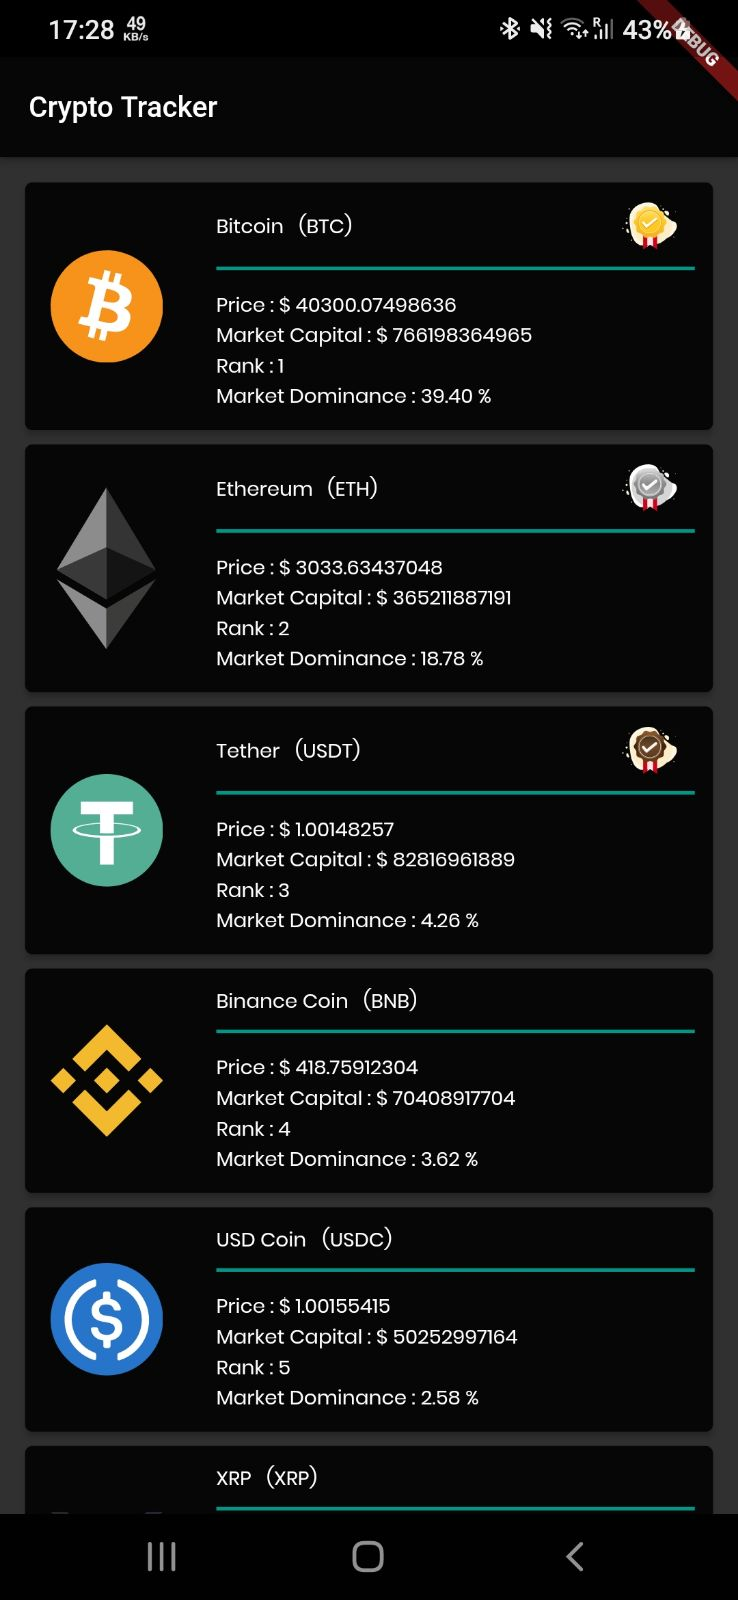
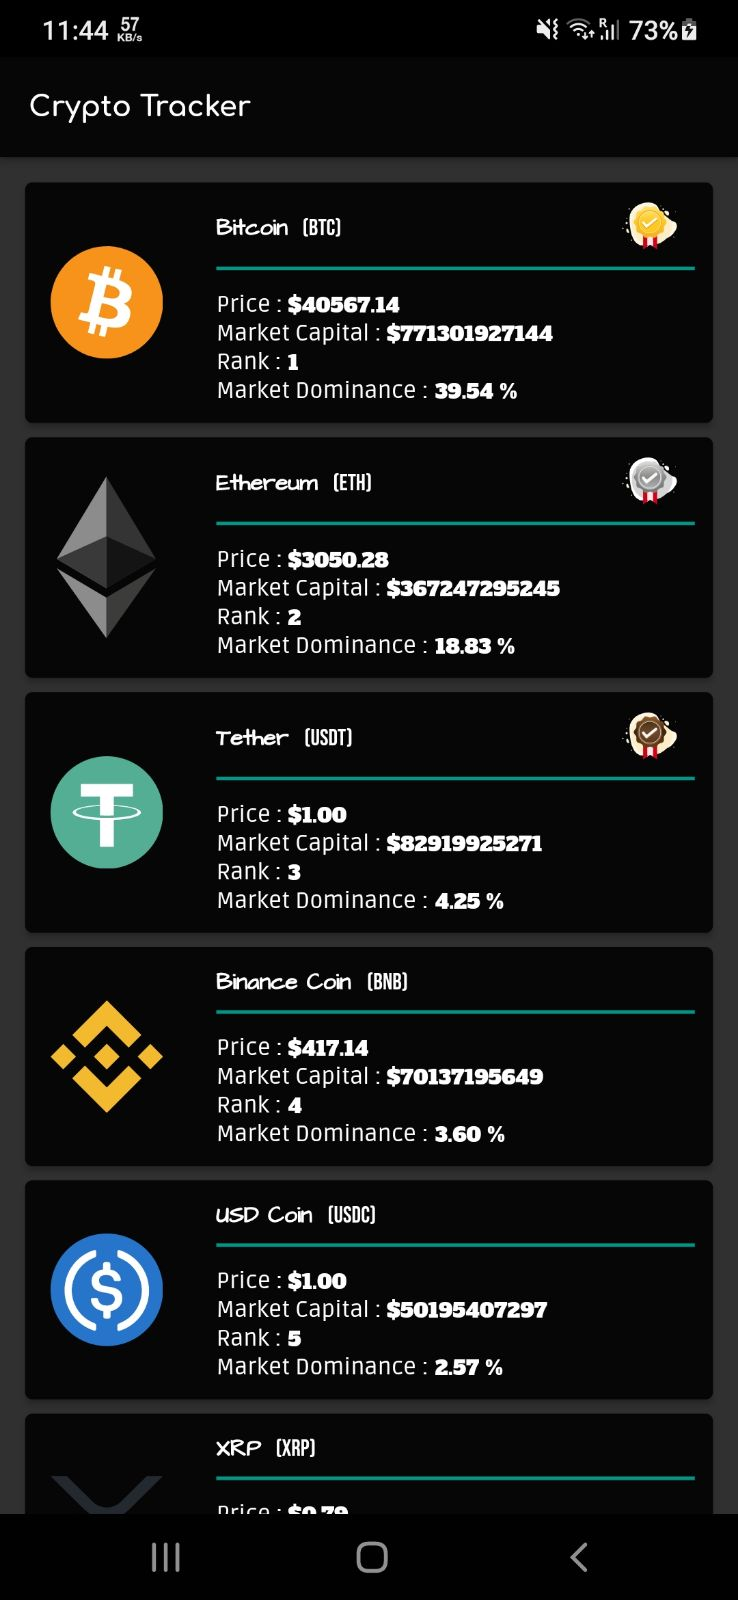
Textstyles and screenshots updated

diff --git a/lib/screens/dashboard_screen.dart b/lib/screens/dashboard_screen.dart
@@ -1,4 +1,5 @@
 import 'package:crypto_app/api_services/crypto_api.dart';
+import 'package:crypto_app/constants/textstyles.dart';
 import 'package:flutter/material.dart';
 import 'package:flutter_svg/flutter_svg.dart';
 import 'package:lottie/lottie.dart';
@@ -25,8 +26,9 @@ class _DashBoardScreenState extends State<DashBoardScreen> {
     return SafeArea(
       child: Scaffold(
         appBar: AppBar(
-          title: const Text(
+          title: Text(
             'Crypto Tracker',
+            style: appBarTitleStyle,
           ),
           elevation: 3,
         ),
@@ -38,7 +40,12 @@ class _DashBoardScreenState extends State<DashBoardScreen> {
                     mainAxisAlignment: MainAxisAlignment.center,
                     children: [
                       Lottie.asset('assets/crypto_loading.json'),
-                      const Text('Hold Up, Loading...'),
+                      Text(
+                        'Hold Up, Loading...',
+                        style: contentTextStyle.copyWith(
+                          color: Colors.teal,
+                        ),
+                      ),
                     ],
                   )
                 : RefreshIndicator(
@@ -52,109 +59,151 @@ class _DashBoardScreenState extends State<DashBoardScreen> {
                       cacheExtent: 2500,
                       itemCount: cryptoCoins.length,
                       physics: const BouncingScrollPhysics(),
-                      itemBuilder: (BuildContext context, int index) => Card(
-                        elevation: 3,
-                        child: Padding(
-                          padding: const EdgeInsets.all(10.0),
-                          child: Row(
-                            children: [
-                              Expanded(
-                                child: Padding(
-                                  padding: const EdgeInsets.only(left: 4.0),
-                                  child: Image.network(
-                                    cryptoCoins[index]['logo_url'],
-                                    height: 90,
-                                    errorBuilder:
-                                        (context, error, stackTrace) =>
-                                            SvgPicture.network(
+                      itemBuilder: (BuildContext context, int index) => InkWell(
+                        onTap: () {
+                          Navigator.pushNamed(
+                            context,
+                            '/coinInfo',
+                            arguments: Map<String, dynamic>.from(
+                              cryptoCoins[
+                                  index], //passing as Map as each particular index is a Map
+                            ),
+                          );
+                        },
+                        child: Card(
+                          elevation: 3,
+                          child: Padding(
+                            padding: const EdgeInsets.all(10.0),
+                            child: Row(
+                              children: [
+                                Expanded(
+                                  child: Padding(
+                                    padding: const EdgeInsets.only(left: 4.0),
+                                    child: Image.network(
                                       cryptoCoins[index]['logo_url'],
                                       height: 90,
+                                      errorBuilder:
+                                          (context, error, stackTrace) =>
+                                              SvgPicture.network(
+                                        cryptoCoins[index]['logo_url'],
+                                        height: 90,
+                                      ),
                                     ),
                                   ),
                                 ),
-                              ),
-                              const SizedBox(
-                                width: 30,
-                              ),
-                              Expanded(
-                                flex: 4,
-                                child: Column(
-                                  crossAxisAlignment: CrossAxisAlignment.start,
-                                  children: [
-                                    Row(
-                                      children: [
-                                        Text(
-                                          cryptoCoins[index]['name'],
-                                        ),
-                                        const SizedBox(
-                                          width: 8,
-                                        ),
-                                        Text('(' +
-                                            cryptoCoins[index]['symbol'] +
-                                            ')'),
-                                        const Expanded(
-                                          child: SizedBox(),
-                                        ),
-                                        if (index == 0)
-                                          Lottie.asset(
-                                            'assets/gold-badge.json',
-                                            height: 30,
-                                          ),
-                                        if (index == 1)
-                                          Lottie.asset(
-                                            'assets/silver-badge.json',
-                                            height: 30,
-                                          ),
-                                        if (index == 2)
-                                          Lottie.asset(
-                                            'assets/bronze-badge.json',
-                                            height: 30,
-                                          ),
-                                      ],
-                                    ),
-                                    const Divider(
-                                      thickness: 2,
-                                      color: Colors.teal,
-                                    ),
-                                    const SizedBox(
-                                      height: 4,
-                                    ),
-                                    Row(
-                                      children: [
-                                        const Text(
-                                          'Price :  \$',
-                                        ),
-                                        Text(
-                                          double.parse(
-                                                  cryptoCoins[index]['price'])
-                                              .toStringAsFixed(2),
-                                        ),
-                                      ],
-                                    ),
-                                    Text(
-                                      'Market Capital :  \$${cryptoCoins[index]['market_cap']}',
-                                    ),
-                                    Text(
-                                      'Rank : ${cryptoCoins[index]['rank']}',
-                                    ),
-                                    Row(
-                                      children: [
-                                        const Text(
-                                          'Market Dominance : ',
-                                        ),
-                                        Text(
-                                          (double.parse(cryptoCoins[index][
-                                                          'market_cap_dominance']) *
-                                                      100)
-                                                  .toStringAsFixed(2) +
-                                              ' %',
-                                        ),
-                                      ],
-                                    ),
-                                  ],
+                                const SizedBox(
+                                  width: 30,
                                 ),
-                              ),
-                            ],
+                                Expanded(
+                                  flex: 4,
+                                  child: Column(
+                                    crossAxisAlignment:
+                                        CrossAxisAlignment.start,
+                                    children: [
+                                      Row(
+                                        children: [
+                                          Text(
+                                            cryptoCoins[index]['name'],
+                                            style: cardHeaderTextStyle,
+                                          ),
+                                          const SizedBox(
+                                            width: 8,
+                                          ),
+                                          Text(
+                                            '(' +
+                                                cryptoCoins[index]['symbol'] +
+                                                ')',
+                                            style: cardPrimaryTextStyle,
+                                          ),
+                                          const Expanded(
+                                            child: SizedBox(),
+                                          ),
+                                          if (index == 0)
+                                            Lottie.asset(
+                                              'assets/gold-badge.json',
+                                              height: 30,
+                                            ),
+                                          if (index == 1)
+                                            Lottie.asset(
+                                              'assets/silver-badge.json',
+                                              height: 30,
+                                            ),
+                                          if (index == 2)
+                                            Lottie.asset(
+                                              'assets/bronze-badge.json',
+                                              height: 30,
+                                            ),
+                                        ],
+                                      ),
+                                      const Divider(
+                                        thickness: 2,
+                                        color: Colors.teal,
+                                      ),
+                                      const SizedBox(
+                                        height: 4,
+                                      ),
+                                      Row(
+                                        children: [
+                                          Text(
+                                            'Price : ',
+                                            style: cardDescriptionTextStyle,
+                                          ),
+                                          Text(
+                                            '\$' +
+                                                double.parse(cryptoCoins[index]
+                                                        ['price'])
+                                                    .toStringAsFixed(2),
+                                            style: cardSecondaryTextStyle,
+                                          ),
+                                        ],
+                                      ),
+                                      Row(
+                                        children: [
+                                          Text(
+                                            'Market Capital : ',
+                                            style: cardDescriptionTextStyle,
+                                          ),
+                                          Text(
+                                            '\$' +
+                                                cryptoCoins[index]
+                                                    ['market_cap'],
+                                            style: cardSecondaryTextStyle,
+                                          ),
+                                        ],
+                                      ),
+                                      Row(
+                                        children: [
+                                          Text(
+                                            'Rank : ',
+                                            style: cardDescriptionTextStyle,
+                                          ),
+                                          Text(
+                                            cryptoCoins[index]['rank'],
+                                            style: cardSecondaryTextStyle,
+                                          ),
+                                        ],
+                                      ),
+                                      Row(
+                                        children: [
+                                          Text(
+                                            'Market Dominance : ',
+                                            style: cardDescriptionTextStyle,
+                                          ),
+                                          Text(
+                                            (double.parse(cryptoCoins[index][
+                                                            'market_cap_dominance']) *
+                                                        100)
+                                                    .toStringAsFixed(2) +
+                                                ' %',
+                                            style: cardSecondaryTextStyle,
+                                          ),
+                                        ],
+                                      ),
+                                    ],
+                                  ),
+                                ),
+                              ],
+                            ),
                           ),
                         ),
                       ),

diff --git a/lib/screens/coin_info_screen.dart b/lib/screens/coin_info_screen.dart
@@ -1,15 +1,50 @@
+import 'package:crypto_app/constants/textstyles.dart';
 import 'package:flutter/material.dart';
+import 'package:flutter_svg/svg.dart';
 
 class CoinInfoScreen extends StatefulWidget {
-  const CoinInfoScreen({Key? key}) : super(key: key);
+  final Map? cryptoCoin;
+  const CoinInfoScreen(this.cryptoCoin);
 
   @override
   State<CoinInfoScreen> createState() => _CoinInfoScreenState();
 }
 
 class _CoinInfoScreenState extends State<CoinInfoScreen> {
+  Map? cryptoCoin;
+
+  @override
+  void initState() {
+    super.initState();
+    cryptoCoin = widget.cryptoCoin;
+  }
+
   @override
   Widget build(BuildContext context) {
-    return SafeArea(child: Container());
+    return SafeArea(
+      child: Scaffold(
+        appBar: AppBar(
+          title: Text(
+            cryptoCoin!['name'],
+            style: appBarTitleStyle,
+          ),
+          actions: [
+            Padding(
+              padding: const EdgeInsets.only(right: 15.0),
+              child: Image.network(
+                cryptoCoin!['logo_url'],
+                height: 30,
+                errorBuilder: (context, error, stackTrace) =>
+                    SvgPicture.network(
+                  cryptoCoin!['logo_url'],
+                  height: 30,
+                ),
+              ),
+            ),
+          ],
+        ),
+        // body: Text(cryptoCoin!['id']),
+      ),
+    );
   }
 }

diff --git a/lib/constants/textstyles.dart b/lib/constants/textstyles.dart
@@ -1,0 +1,42 @@
+import 'package:flutter/material.dart';
+import 'package:flutter/rendering.dart';
+import 'package:google_fonts/google_fonts.dart';
+
+TextStyle appBarTitleStyle = GoogleFonts.getFont(
+  'Comfortaa',
+  fontWeight: FontWeight.bold,
+);
+
+TextStyle tabBarTitleStyle = GoogleFonts.getFont(
+  'Roboto',
+  fontWeight: FontWeight.bold,
+  color: const Color(0xff707070),
+);
+
+TextStyle cardHeaderTextStyle = GoogleFonts.getFont(
+  'Architects Daughter',
+  fontWeight: FontWeight.bold,
+  fontSize: 16,
+);
+
+TextStyle cardPrimaryTextStyle = GoogleFonts.getFont(
+  'Bebas Neue',
+  fontWeight: FontWeight.normal,
+  fontSize: 16,
+);
+
+TextStyle cardSecondaryTextStyle = GoogleFonts.getFont(
+  'Alfa Slab One',
+  fontWeight: FontWeight.w300,
+);
+
+TextStyle contentTextStyle = GoogleFonts.getFont(
+  'Indie Flower',
+  fontSize: 30,
+  fontWeight: FontWeight.w200,
+);
+
+TextStyle cardDescriptionTextStyle = GoogleFonts.getFont(
+  'Ruda',
+  fontSize: 16,
+);

diff --git a/lib/main.dart b/lib/main.dart
@@ -14,6 +14,7 @@ class MyApp extends StatelessWidget {
   @override
   Widget build(BuildContext context) {
     return MaterialApp(
+      debugShowCheckedModeBanner: false,
       theme: lightModeTheme,
       darkTheme: darkModeTheme,
       home: const SplashScreen(),
@@ -22,7 +23,8 @@ class MyApp extends StatelessWidget {
         var routes = <String, WidgetBuilder>{
           '/splash': (BuildContext context) => const SplashScreen(),
           '/dashBoard': (BuildContext context) => const DashBoardScreen(),
-          '/coinInfo': (BuildContext context) => const CoinInfoScreen(),
+          '/coinInfo': (BuildContext context) =>
+              CoinInfoScreen(settings.arguments as Map),
         };
         WidgetBuilder builder = routes[settings.name]!;
         return MaterialPageRoute(
